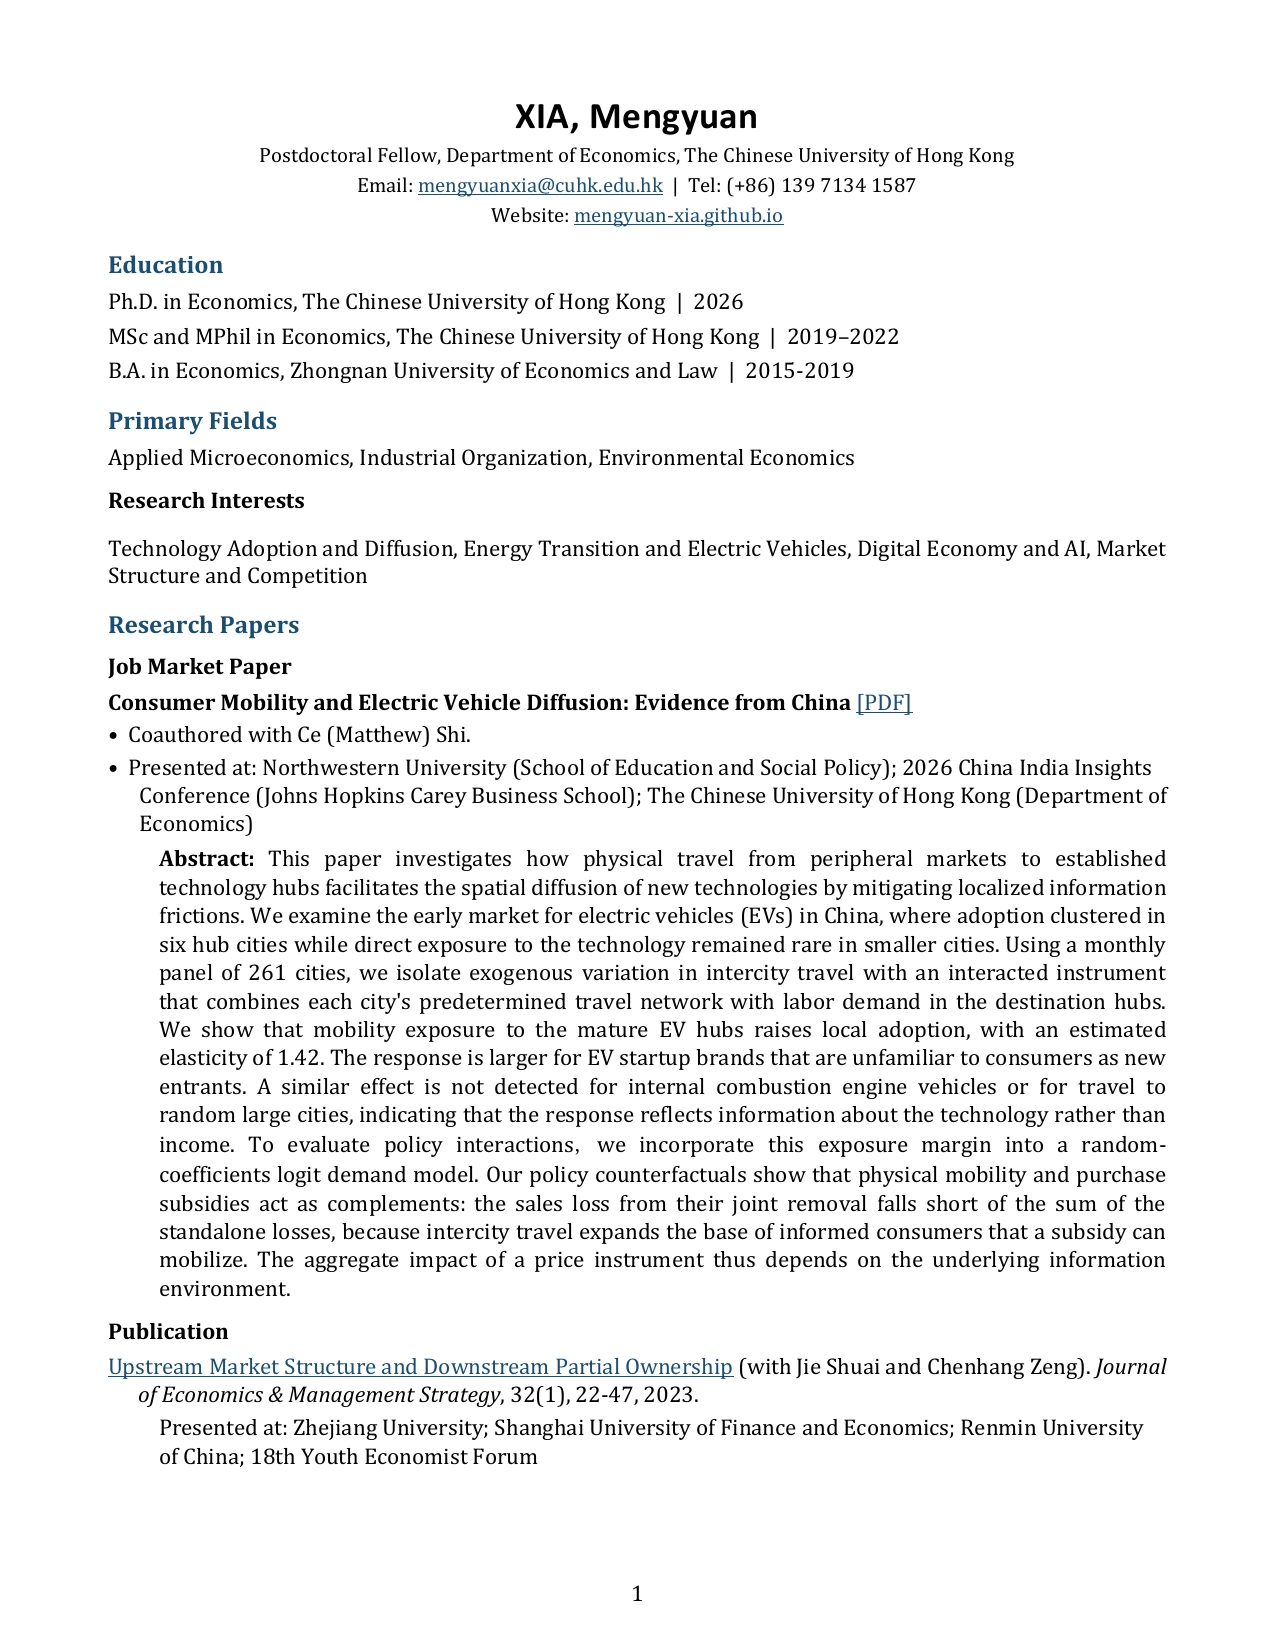
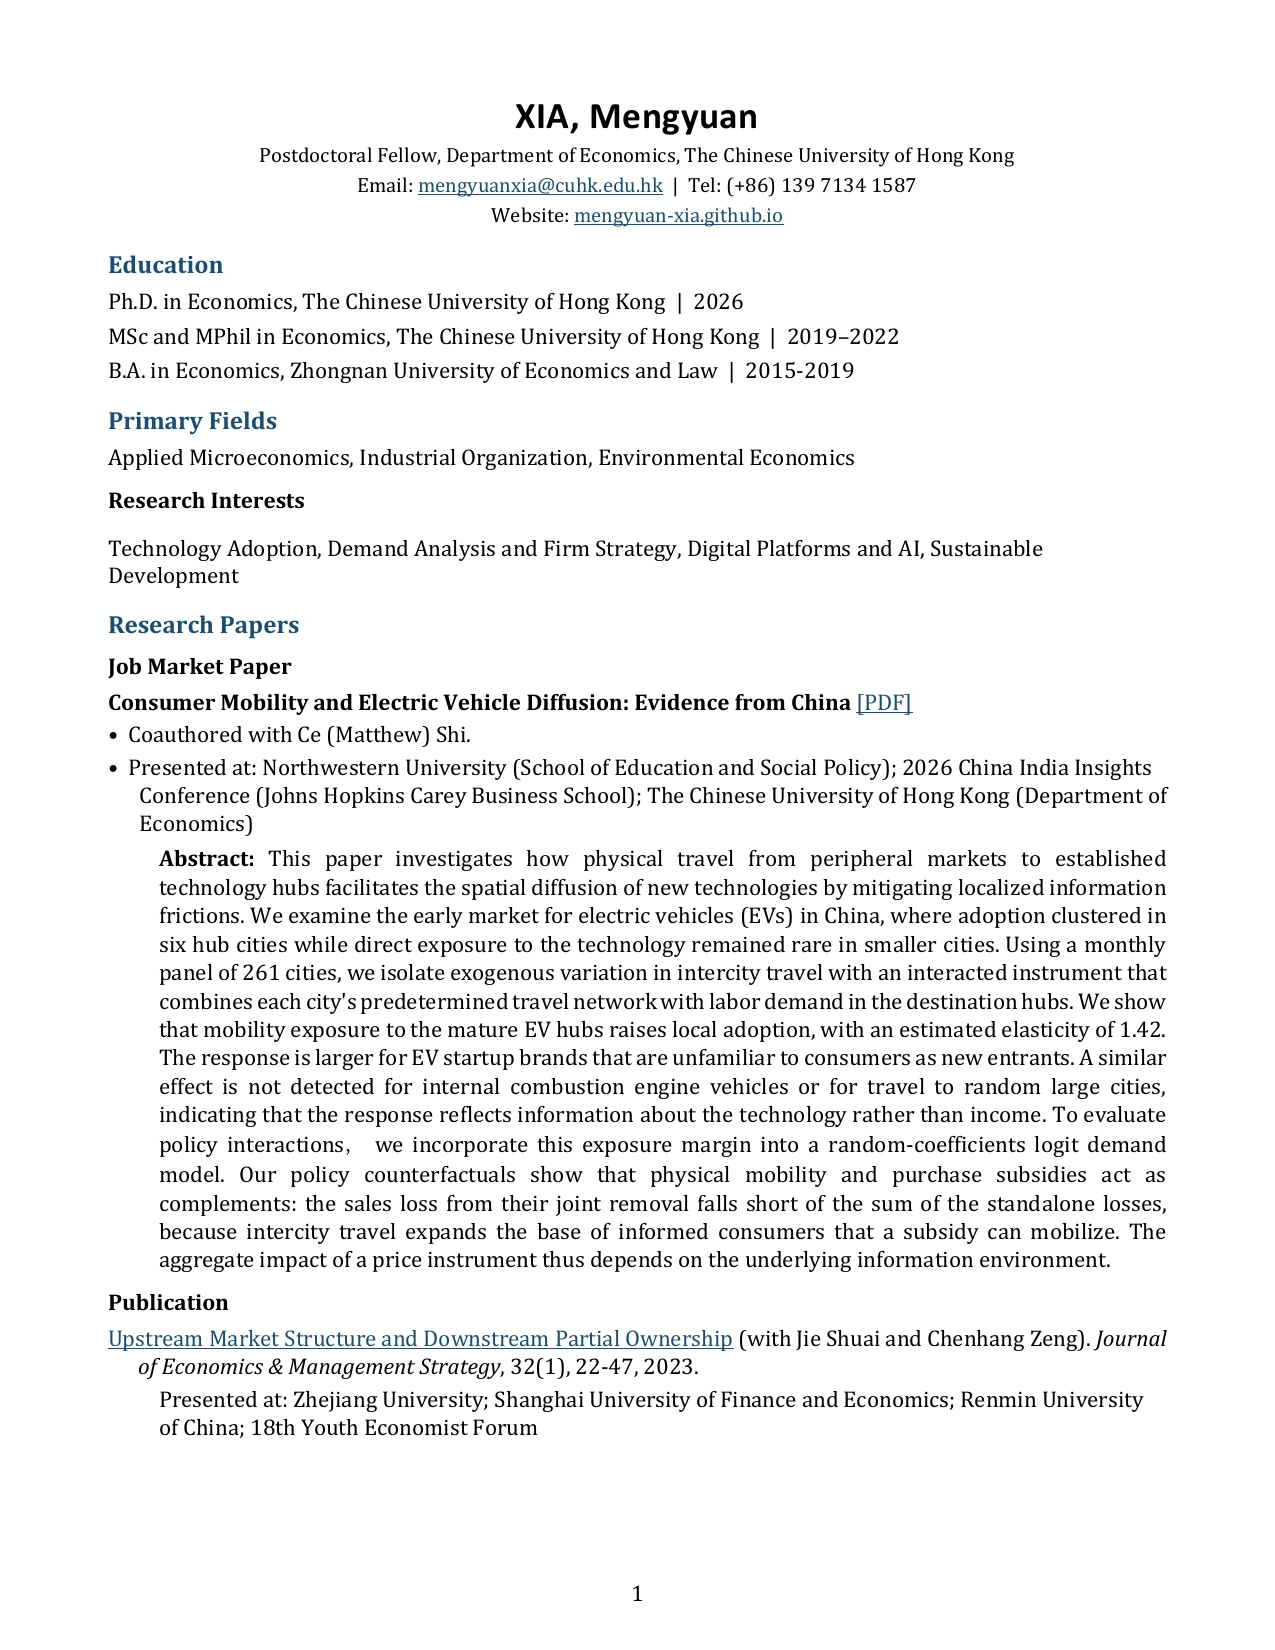
Replace CV PDF and both page previews with latest supplied version

Changed region(s): [[0.0918, 0.5873, 0.9176, 0.8964], [0.0918, 0.3091, 0.9176, 0.3709]]

diff --git a/cv.html b/cv.html
@@ -19,11 +19,12 @@
       <h1 class="section-title" id="cv-heading">Curriculum Vitae</h1>
       <p class="cv-actions"><a href="documents/cv-mengyuan-xia.pdf" target="_blank" rel="noopener">View PDF</a><a href="documents/cv-mengyuan-xia.pdf" download="CV_Mengyuan_Xia.pdf">Download PDF</a></p>
       <div class="cv-preview" aria-label="CV preview">
-        <a href="documents/cv-mengyuan-xia.pdf" target="_blank" rel="noopener"><img src="assets/cv-page-1.webp" alt="Curriculum vitae, page 1 of 2. Open the PDF for selectable text." width="1275" height="1650"></a>
-        <a href="documents/cv-mengyuan-xia.pdf" target="_blank" rel="noopener"><img src="assets/cv-page-2.webp" alt="Curriculum vitae, page 2 of 2. Open the PDF for selectable text." width="1275" height="1650" loading="lazy"></a>
+        <a href="documents/cv-mengyuan-xia.pdf" target="_blank" rel="noopener"><img src="assets/cv-page-1.webp?v=d0939904a1d8" alt="Curriculum vitae, page 1 of 2. Open the PDF for selectable text." width="1275" height="1650"></a>
+        <a href="documents/cv-mengyuan-xia.pdf" target="_blank" rel="noopener"><img src="assets/cv-page-2.webp?v=639054714db9" alt="Curriculum vitae, page 2 of 2. Open the PDF for selectable text." width="1275" height="1650" loading="lazy"></a>
       </div>
     </section>
   </main>
   <footer><div class="wrap">© Mengyuan Xia</div></footer>
 </body>
 </html>
+
